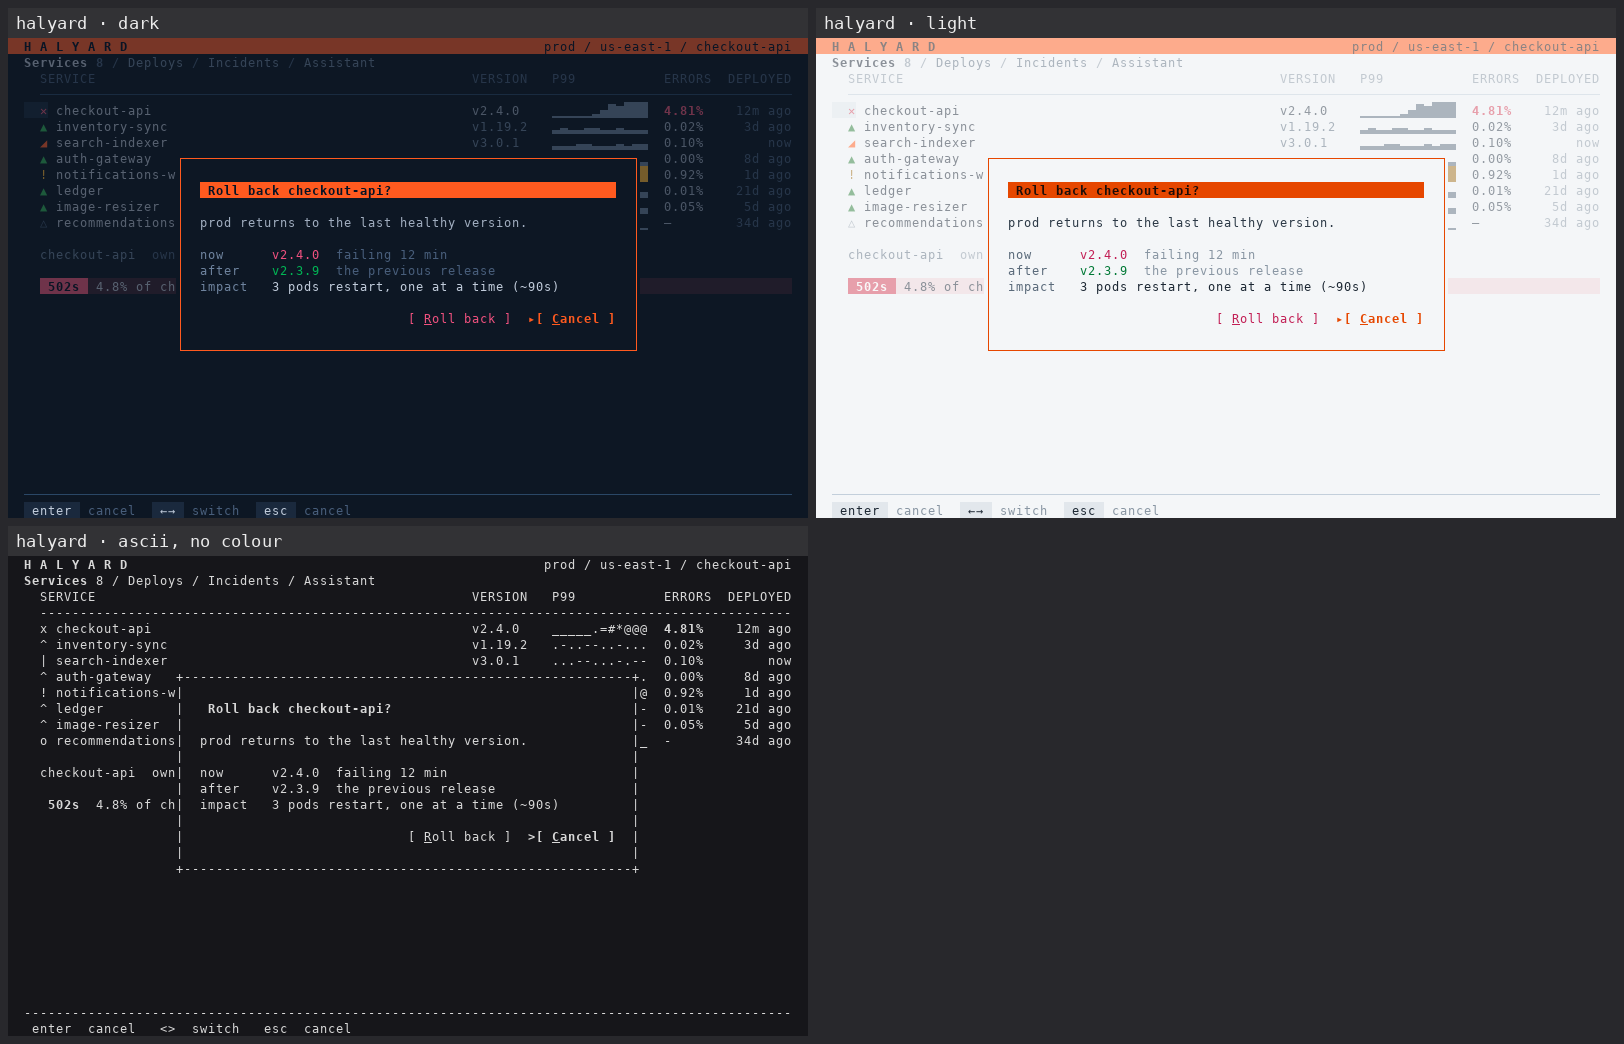
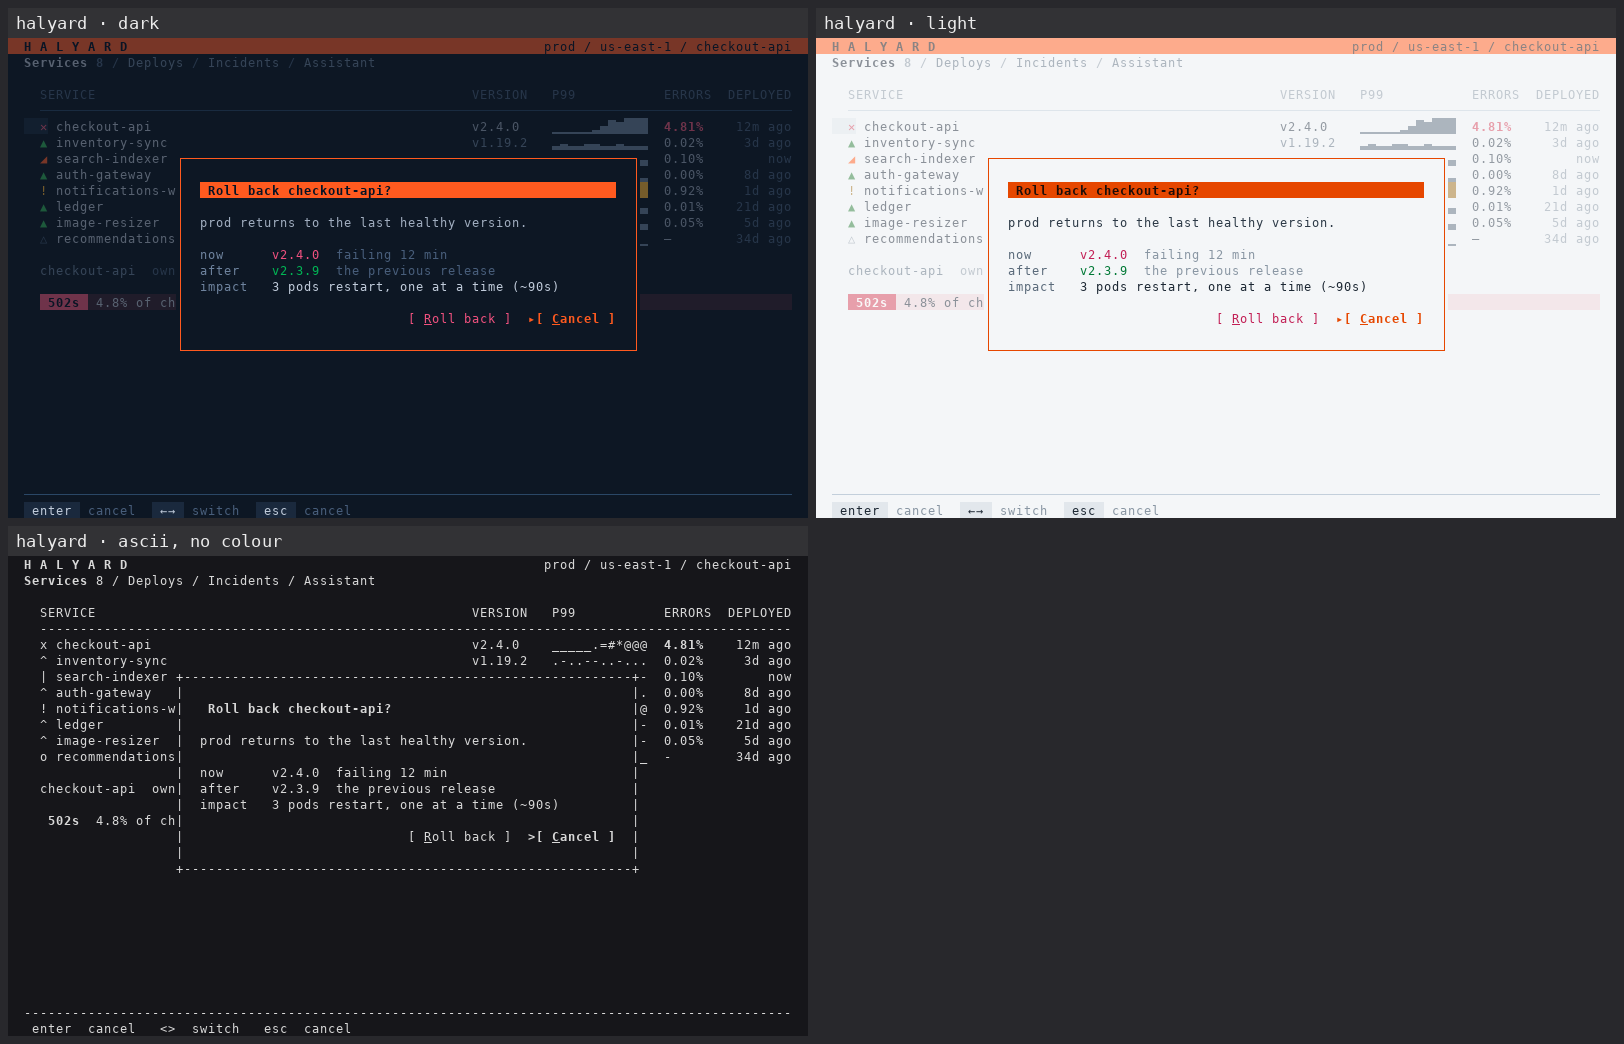
Kit: deploy events carry their environment; live activity and recent feeds
Critic round 3 (20/24): a non-prod deploy row lost its service identity;
Activity and Recent were static fixtures that contradicted a rollback; the
turn footer used the idle glyph. Events now hold Svc and Env separately (the
identity test walks every row, including a staging one); deploys and
rollbacks write one feed that Activity and Recent read; finished turns show
the done glyph. README gallery regenerated.

Claude-Session: https://claude.ai/code/session_014Et9GvtrCiBSQbQQkk9ZHn

diff --git a/skills/bubbletea-tui/kit/cmd/showcase/app.go b/skills/bubbletea-tui/kit/cmd/showcase/app.go
@@ -82,6 +82,7 @@ type app struct {
 	// deploys log: newest first; depSel is a row, resolved to a service by name
 	events []event
 	depSel int
+	feed   [][4]string // the activity feed (time, what, who, state): live, newest first
 }
 
 type toast struct {
@@ -105,6 +106,7 @@ func newApp(f theme.File, dark, ascii bool) *app {
 	m := &app{file: f, t: theme.Resolve(f, dark, ascii), ascii: ascii, w: 80, h: 24}
 	m.svcs = slices.Clone(services)
 	m.events = slices.Clone(initialEvents)
+	m.feed = slices.Clone(activity)
 	m.version, m.checks = "v2.4.1", [2]bool{true, false}
 	m.btn = 1
 	return m
@@ -452,9 +454,12 @@ func (m *app) svcIndex(name string) int {
 	return m.sel
 }
 
-func (m *app) logEvent(e event) {
+// logEvent records a deploy or rollback everywhere it is shown: the deploy
+// log, the activity feed and (via the feed) the detail pane's Recent list.
+func (m *app) logEvent(e event, what string) {
 	m.events = append([]event{e}, m.events...)
 	m.depSel = 0
+	m.feed = append([][4]string{{"now", what, e.By, e.State}}, m.feed...)
 }
 
 // deploy ships the form's version. Prod changes the fleet and finishes by a
@@ -465,12 +470,12 @@ func (m *app) deploy() tea.Cmd {
 	how := []string{"rolling", "canary 10%", "blue/green"}[m.strategy]
 	m.screen = scrServices
 	if env != "prod" {
-		m.logEvent(event{"now", s.Name + " (" + env + ")", m.version, "@you", "ok"})
+		m.logEvent(event{"now", s.Name, env, m.version, "@you", "ok"}, "deployed "+s.Name+" "+m.version+" to "+env)
 		m.say("ok", "DEPLOYED", s.Name+" "+m.version+" to "+env)
 		return nil
 	}
 	s.Prev, s.State, s.Version = s.Version, "deploying", m.version
-	m.logEvent(event{"now", s.Name, m.version, "@you", "busy"})
+	m.logEvent(event{"now", s.Name, "prod", m.version, "@you", "busy"}, "deploying "+s.Name+" "+m.version)
 	m.say("info", "DEPLOYING", s.Name+" "+m.version+" to prod · "+how)
 	name := s.Name
 	return tea.Tick(4*time.Second, func(time.Time) tea.Msg { return deployDoneMsg{name} })
@@ -488,6 +493,7 @@ func (m *app) finishDeploy(name string) {
 			m.events[k].State = "ok"
 		}
 	}
+	m.feed = append([][4]string{{"now", "deployed " + name + " " + s.Version + " · 3/3 pods healthy", "@you", "ok"}}, m.feed...)
 	m.say("ok", "DEPLOYED", name+" "+s.Version+" · 3/3 pods healthy")
 }
 
@@ -508,7 +514,7 @@ func (m *app) rollback() {
 	from := s.Version
 	s.Version, s.Prev, s.State, s.ErrRate, s.Deployed = s.Prev, "", "ok", "0.03%", "now"
 	s.P99 = []float64{140, 132, 128, 125, 124, 123, 122, 121, 122, 121, 120, 121}
-	m.logEvent(event{"now", s.Name, s.Version, "@you", "ok"})
+	m.logEvent(event{"now", s.Name, "prod", s.Version, "@you", "ok"}, "rolled back "+s.Name+" "+from+" → "+s.Version)
 	m.say("ok", "DONE", "Rolled back "+s.Name+" from "+from+" to "+s.Version)
 }
 

diff --git a/skills/bubbletea-tui/kit/cmd/showcase/screens.go b/skills/bubbletea-tui/kit/cmd/showcase/screens.go
@@ -161,7 +161,7 @@ func (m *app) services(c *ui.Canvas, r uv.Rectangle) {
 		// tall terminals: use the room for the activity feed, not blank rows
 		if top := main.Min.Y + len(tbl) + 2; main.Max.Y-top >= 6 {
 			act := []string{ui.Section(t, "Activity", main.Dx(), "last hour"), ""}
-			for _, e := range activity {
+			for _, e := range m.feed {
 				act = append(act, "  "+t.S.Subtle.Render(e[0])+"  "+ui.Dot(t, e[3])+" "+t.S.Soft.Render(e[1])+"  "+t.S.Muted.Render(e[2]))
 			}
 			n := min(len(act), main.Max.Y-top)
@@ -202,12 +202,18 @@ func (m *app) serviceDetail(c *ui.Canvas, r uv.Rectangle) {
 		trend += "  " + t.S.Err.Render(t.G.Arrow+" "+ftoa(last/s.P99[0])+"× since 14:00")
 	}
 	rows = append(rows, trend)
-	if s.State == "error" {
-		rows = append(rows, "", ui.Section(t, "Recent", w, ""), "")
-		ev := [][2]string{{"14:03", "circuit open · payments"}, {"14:02", "502 rate crossed 1%"}, {"14:00", "deployed " + s.Version + " by @mara"}}
-		for _, e := range ev {
-			rows = append(rows, t.S.Subtle.Render(e[0])+"  "+t.S.Soft.Render(e[1]))
+	// Recent: this service's lines from the live feed
+	var recent []string
+	for _, e := range m.feed {
+		if strings.Contains(e[1], s.Name) && len(recent) < 3 {
+			recent = append(recent, t.S.Subtle.Render(e[0])+"  "+t.S.Soft.Render(ui.Trunc(t, e[1], w-7)))
 		}
+	}
+	if len(recent) > 0 {
+		rows = append(rows, "", ui.Section(t, "Recent", w, ""), "")
+		rows = append(rows, recent...)
+	}
+	if s.State == "error" && s.Prev != "" {
 		rows = append(rows, "", t.S.Key.Render("r")+" "+t.S.KeyDesc.Render("roll back to "+s.Prev))
 	}
 	c.Draw(strings.Join(rows, "\n"), r)
@@ -239,7 +245,11 @@ func (m *app) deploys(c *ui.Canvas, r uv.Rectangle) {
 		if e.State == "busy" {
 			st = ui.Spinner(t, m.frame/2)
 		}
-		rows = append(rows, []string{st + " " + t.S.Base.Render(e.Svc), t.S.Soft.Render(e.Version), t.S.Muted.Render(e.By), t.S.Subtle.Render(e.Ago)})
+		name := t.S.Base.Render(e.Svc)
+		if e.Env != "prod" {
+			name += t.S.Muted.Render(" " + e.Env)
+		}
+		rows = append(rows, []string{st + " " + name, t.S.Soft.Render(e.Version), t.S.Muted.Render(e.By), t.S.Subtle.Render(e.Ago)})
 	}
 	widths := []int{0, 9, 8, 8}
 	widths[0] = max(12, min(40, main.Dx()-(2+11+10+10)))

diff --git a/skills/bubbletea-tui/kit/cmd/showcase/data.go b/skills/bubbletea-tui/kit/cmd/showcase/data.go
@@ -89,15 +89,16 @@ var activity = [][4]string{
 
 // event is one line of the deploy log. It names its service, so selecting a
 // row selects that service (by identity, never by row index).
-type event struct{ Ago, Svc, Version, By, State string }
+type event struct{ Ago, Svc, Env, Version, By, State string }
 
 var initialEvents = []event{
-	{"now", "search-indexer", "v3.0.1", "@ci", "busy"},
-	{"14m ago", "checkout-api", "v2.4.0", "@mara", "error"},
-	{"1h ago", "auth-gateway", "v5.2.7", "@ci", "ok"},
-	{"1d ago", "notifications-worker-eu-west", "v0.9.14", "@devon", "warning"},
-	{"3d ago", "inventory-sync", "v1.19.2", "@ci", "ok"},
-	{"5d ago", "image-resizer", "v2.0.3", "@priya", "ok"},
-	{"21d ago", "ledger", "v7.1.0", "@jun", "ok"},
-	{"34d ago", "recommendations", "v4.4.4", "@ci", "idle"},
+	{"now", "search-indexer", "prod", "v3.0.1", "@ci", "busy"},
+	{"14m ago", "checkout-api", "prod", "v2.4.0", "@mara", "error"},
+	{"1h ago", "auth-gateway", "prod", "v5.2.7", "@ci", "ok"},
+	{"1d ago", "notifications-worker-eu-west", "prod", "v0.9.14", "@devon", "warning"},
+	{"2d ago", "ledger", "staging", "v7.1.1", "@jun", "ok"},
+	{"3d ago", "inventory-sync", "prod", "v1.19.2", "@ci", "ok"},
+	{"5d ago", "image-resizer", "prod", "v2.0.3", "@priya", "ok"},
+	{"21d ago", "ledger", "prod", "v7.1.0", "@jun", "ok"},
+	{"34d ago", "recommendations", "prod", "v4.4.4", "@ci", "idle"},
 }

diff --git a/skills/bubbletea-tui/kit/ui/chat.go b/skills/bubbletea-tui/kit/ui/chat.go
@@ -197,7 +197,7 @@ func Thinking(t *theme.Theme, lines []string, n int, took string, w int) []strin
 
 // TurnFooter closes a turn: "◇ model via provider in 12s ──────".
 func TurnFooter(t *theme.Theme, model, via, took string, w int) string {
-	label := t.S.Muted.Render(t.G.Todo+" "+model) + t.S.Subtle.Render(" via "+via+" in "+took)
+	label := t.S.OK.Render(t.G.Done) + t.S.Muted.Render(" "+model) + t.S.Subtle.Render(" via "+via+" in "+took)
 	n := w - 2 - lipgloss.Width(label) - 1
 	return "  " + label + " " + t.S.Rule.Render(strings.Repeat(t.G.Rule, max(0, n)))
 }

diff --git a/skills/bubbletea-tui/kit/cmd/showcase/behaviour_test.go b/skills/bubbletea-tui/kit/cmd/showcase/behaviour_test.go
@@ -175,7 +175,7 @@ func TestASCIIStatusDistinct(t *testing.T) {
 // header names and every action uses (the round-2 Deploys bug).
 func TestSelectionIsIdentity(t *testing.T) {
 	m := fixture(t, "deploys")
-	for range 3 {
+	for range len(m.events) - 1 { // every row, including the non-prod one
 		m.key(press("j"))
 		want := m.events[m.depSel].Svc
 		if got := m.svcs[m.sel].Name; got != want {

diff --git a/README.md b/README.md
@@ -95,6 +95,10 @@ scripts/termshot.py frames/*-80x24.ansi --sheet sheet.png # look at it
 
 ![Light, dark and ASCII renders of one state](docs/images/gallery-modes.png)
 
+![The assistant: tool calls, thinking, a turn footer, the working indicator](docs/images/gallery-assistant.png)
+
+![The command palette in six brands](docs/images/gallery-palette.png)
+
 ## Credits
 
 The idiom is learned from [Charm](https://charm.land)'s
